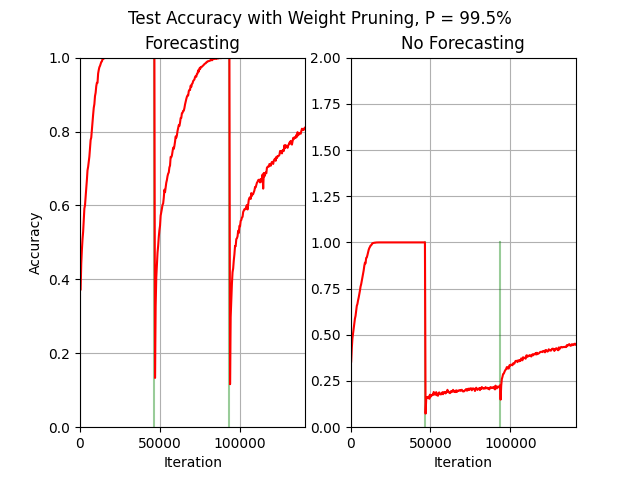
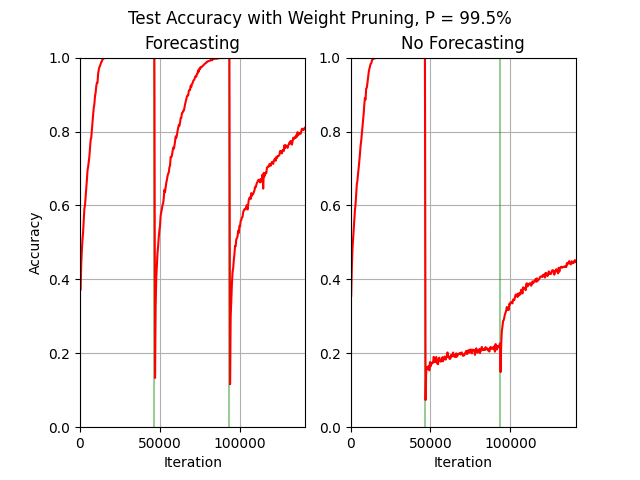
getting more pictures

diff --git a/Graphing.py b/Graphing.py
@@ -22,7 +22,7 @@ ax2.plot(training_iterations, accuracy_2, "r-")
 ax2.set_title("No Forecasting")
 ax2.set_xlabel("Iteration")
 ax2.set_xlim(0, 141000)
-ax2.set_ylim(0, 2)
+ax2.set_ylim(0, 1)
 ax1.grid(True)
 ax2.grid(True)
 plt.savefig("./Resnet18_Results")
